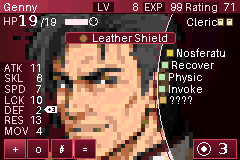
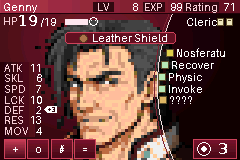
Retrato 20% más chico y 5 px a la derecha
Claude-Session: https://claude.ai/code/session_01C4QAM7MwvCQVjJLG12SBSt

diff --git a/gba_status/generar.py b/gba_status/generar.py
@@ -22,7 +22,7 @@ for y in range(H):
         img.putpixel((x, y), lerp((128, 32, 48), (40, 6, 14), k))
 
 # retrato (arte del usuario, fondo morado transparente)
-RX, RY = -71, 0  # ojos alineados con la guia
+RX, RY = -32, 17  # ojos alineados con la guia
 art = Image.open("retrato_busto.png").convert("RGB")
 bgc = (77, 26, 77)
 # quitar fondo morado y marco gris conectado al borde (flood fill)
@@ -38,7 +38,7 @@ for y in range(art.height):
     for x in range(art.width):
         if art.getpixel((x, y)) == bgc: mask.putpixel((x, y), 0)
         art.putpixel((x, y), c(*art.getpixel((x, y))))
-ESC = 4.0  # cabeza grande, cortada bajo los hombros
+ESC = 3.2  # cabeza grande, cortada bajo los hombros
 art = art.resize((int(art.width * ESC), int(art.height * ESC)), Image.NEAREST)
 mask = mask.resize(art.size, Image.NEAREST)
 img.paste(art, (RX, RY), mask)
